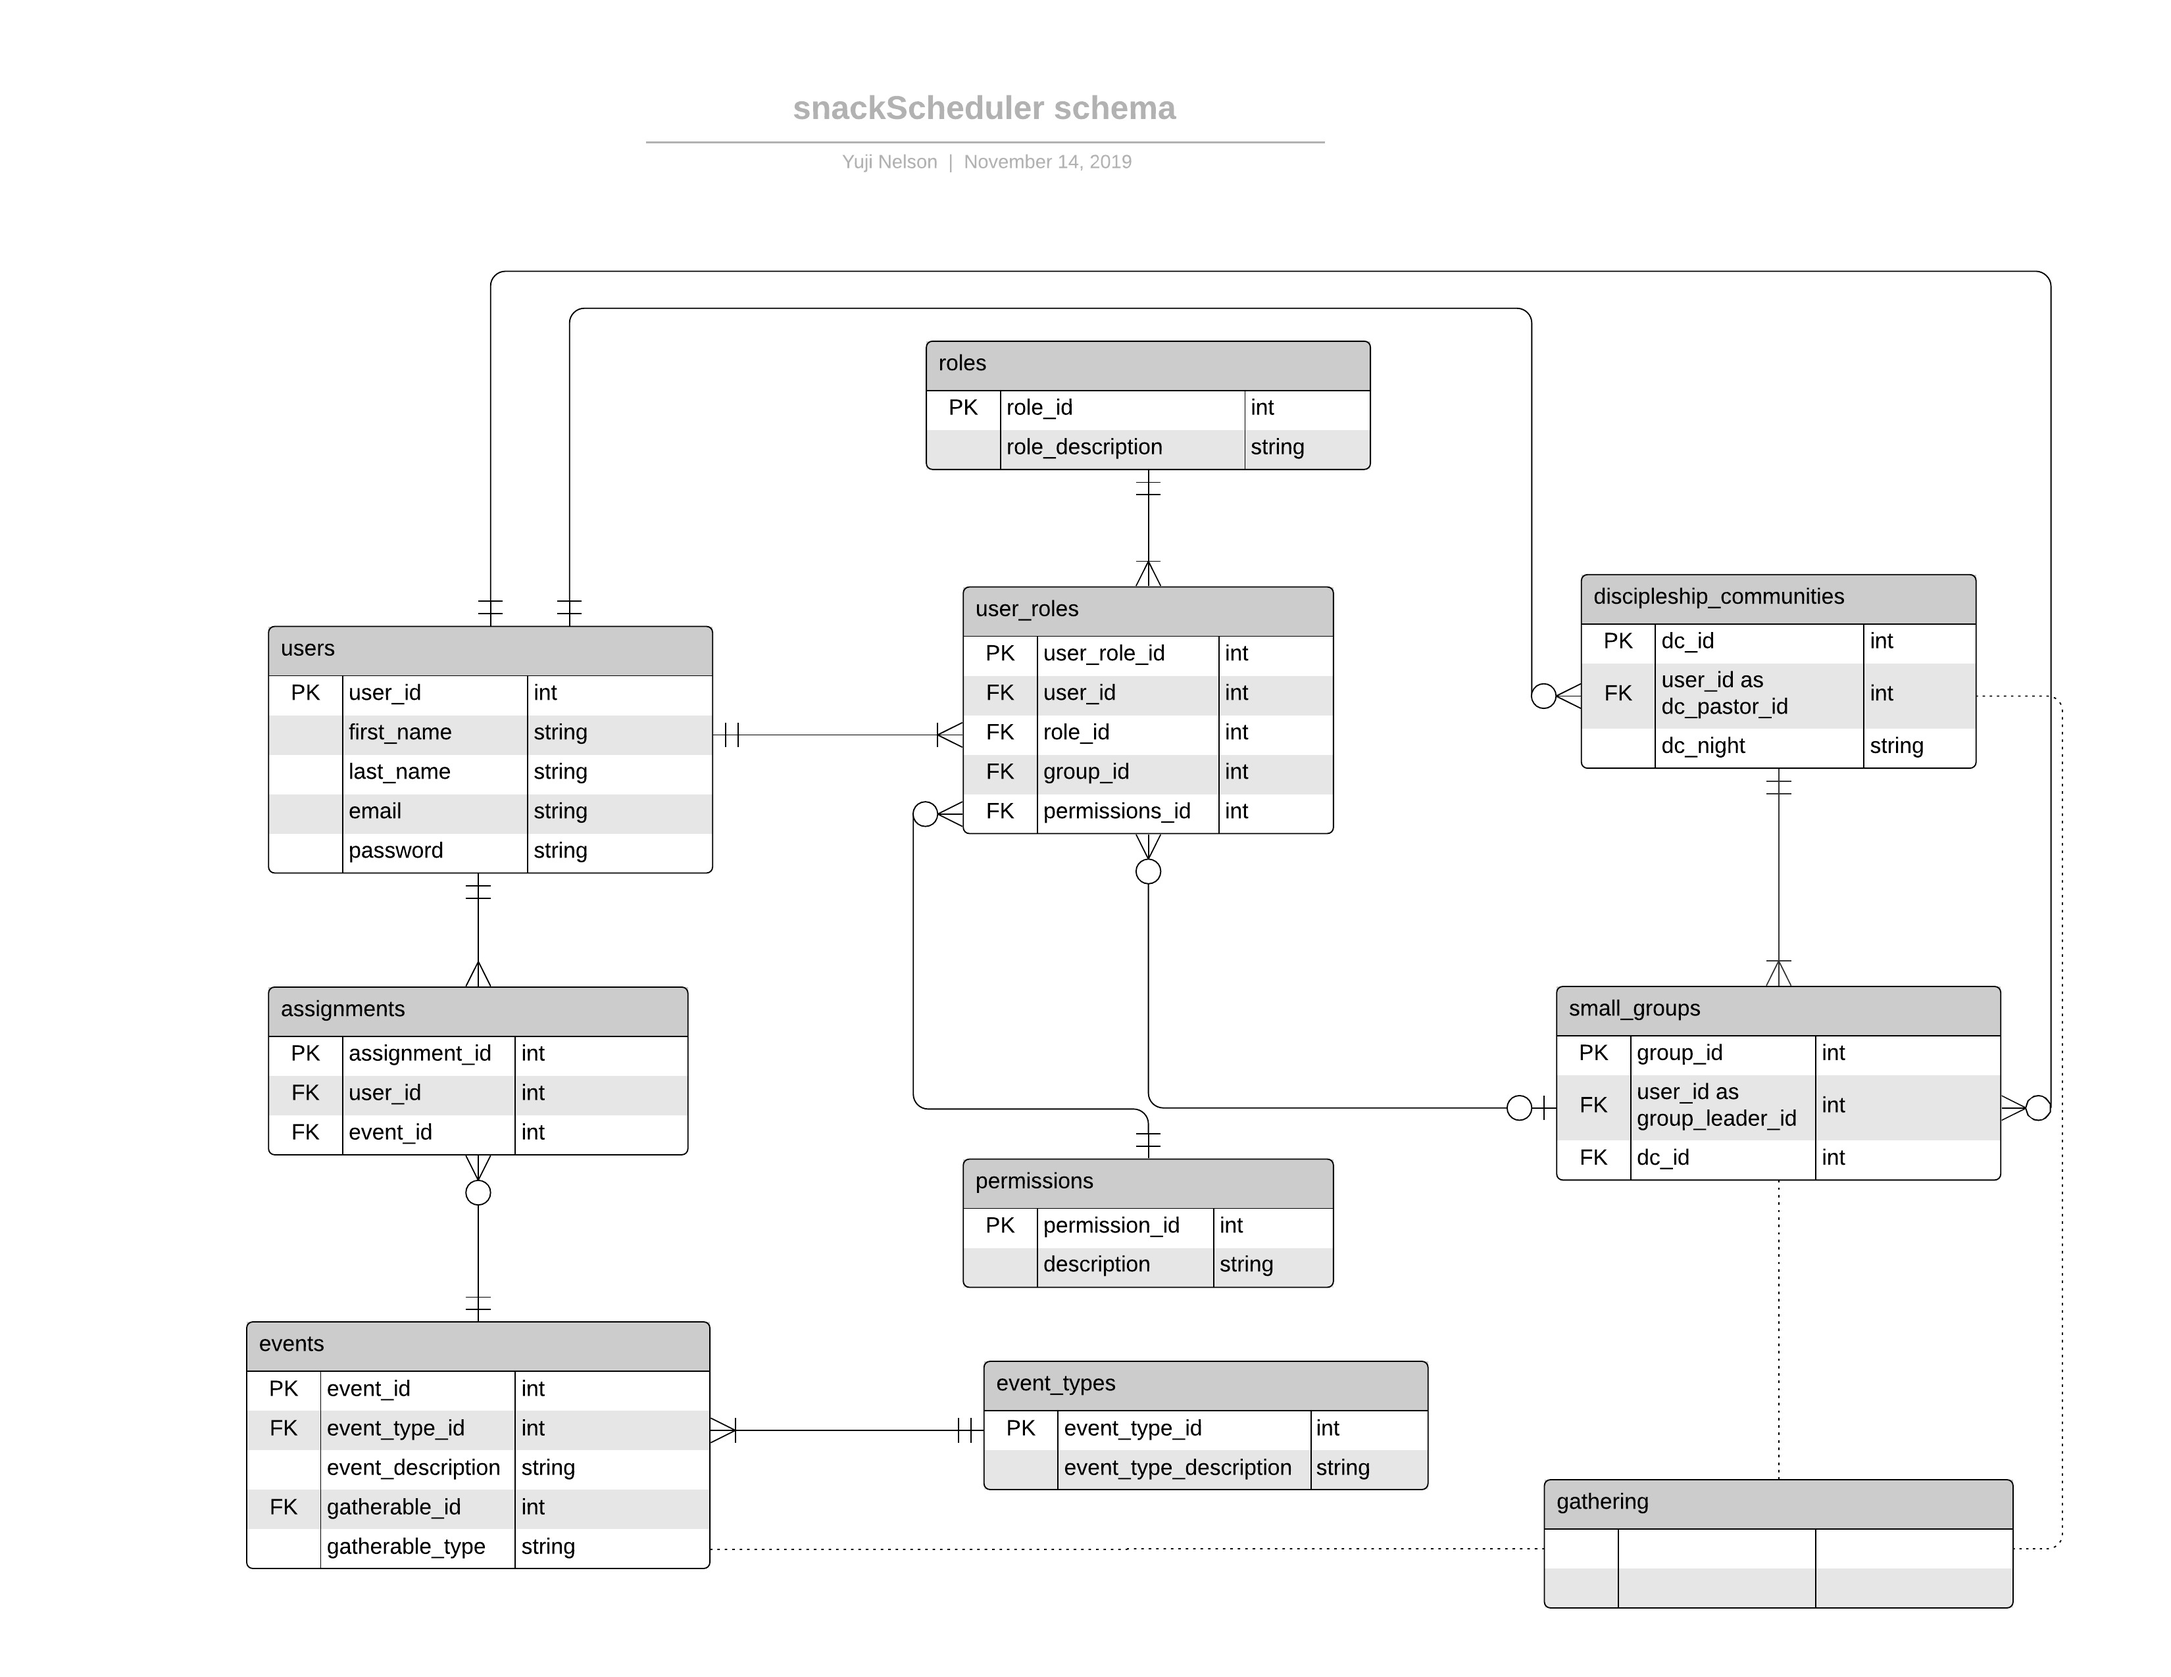
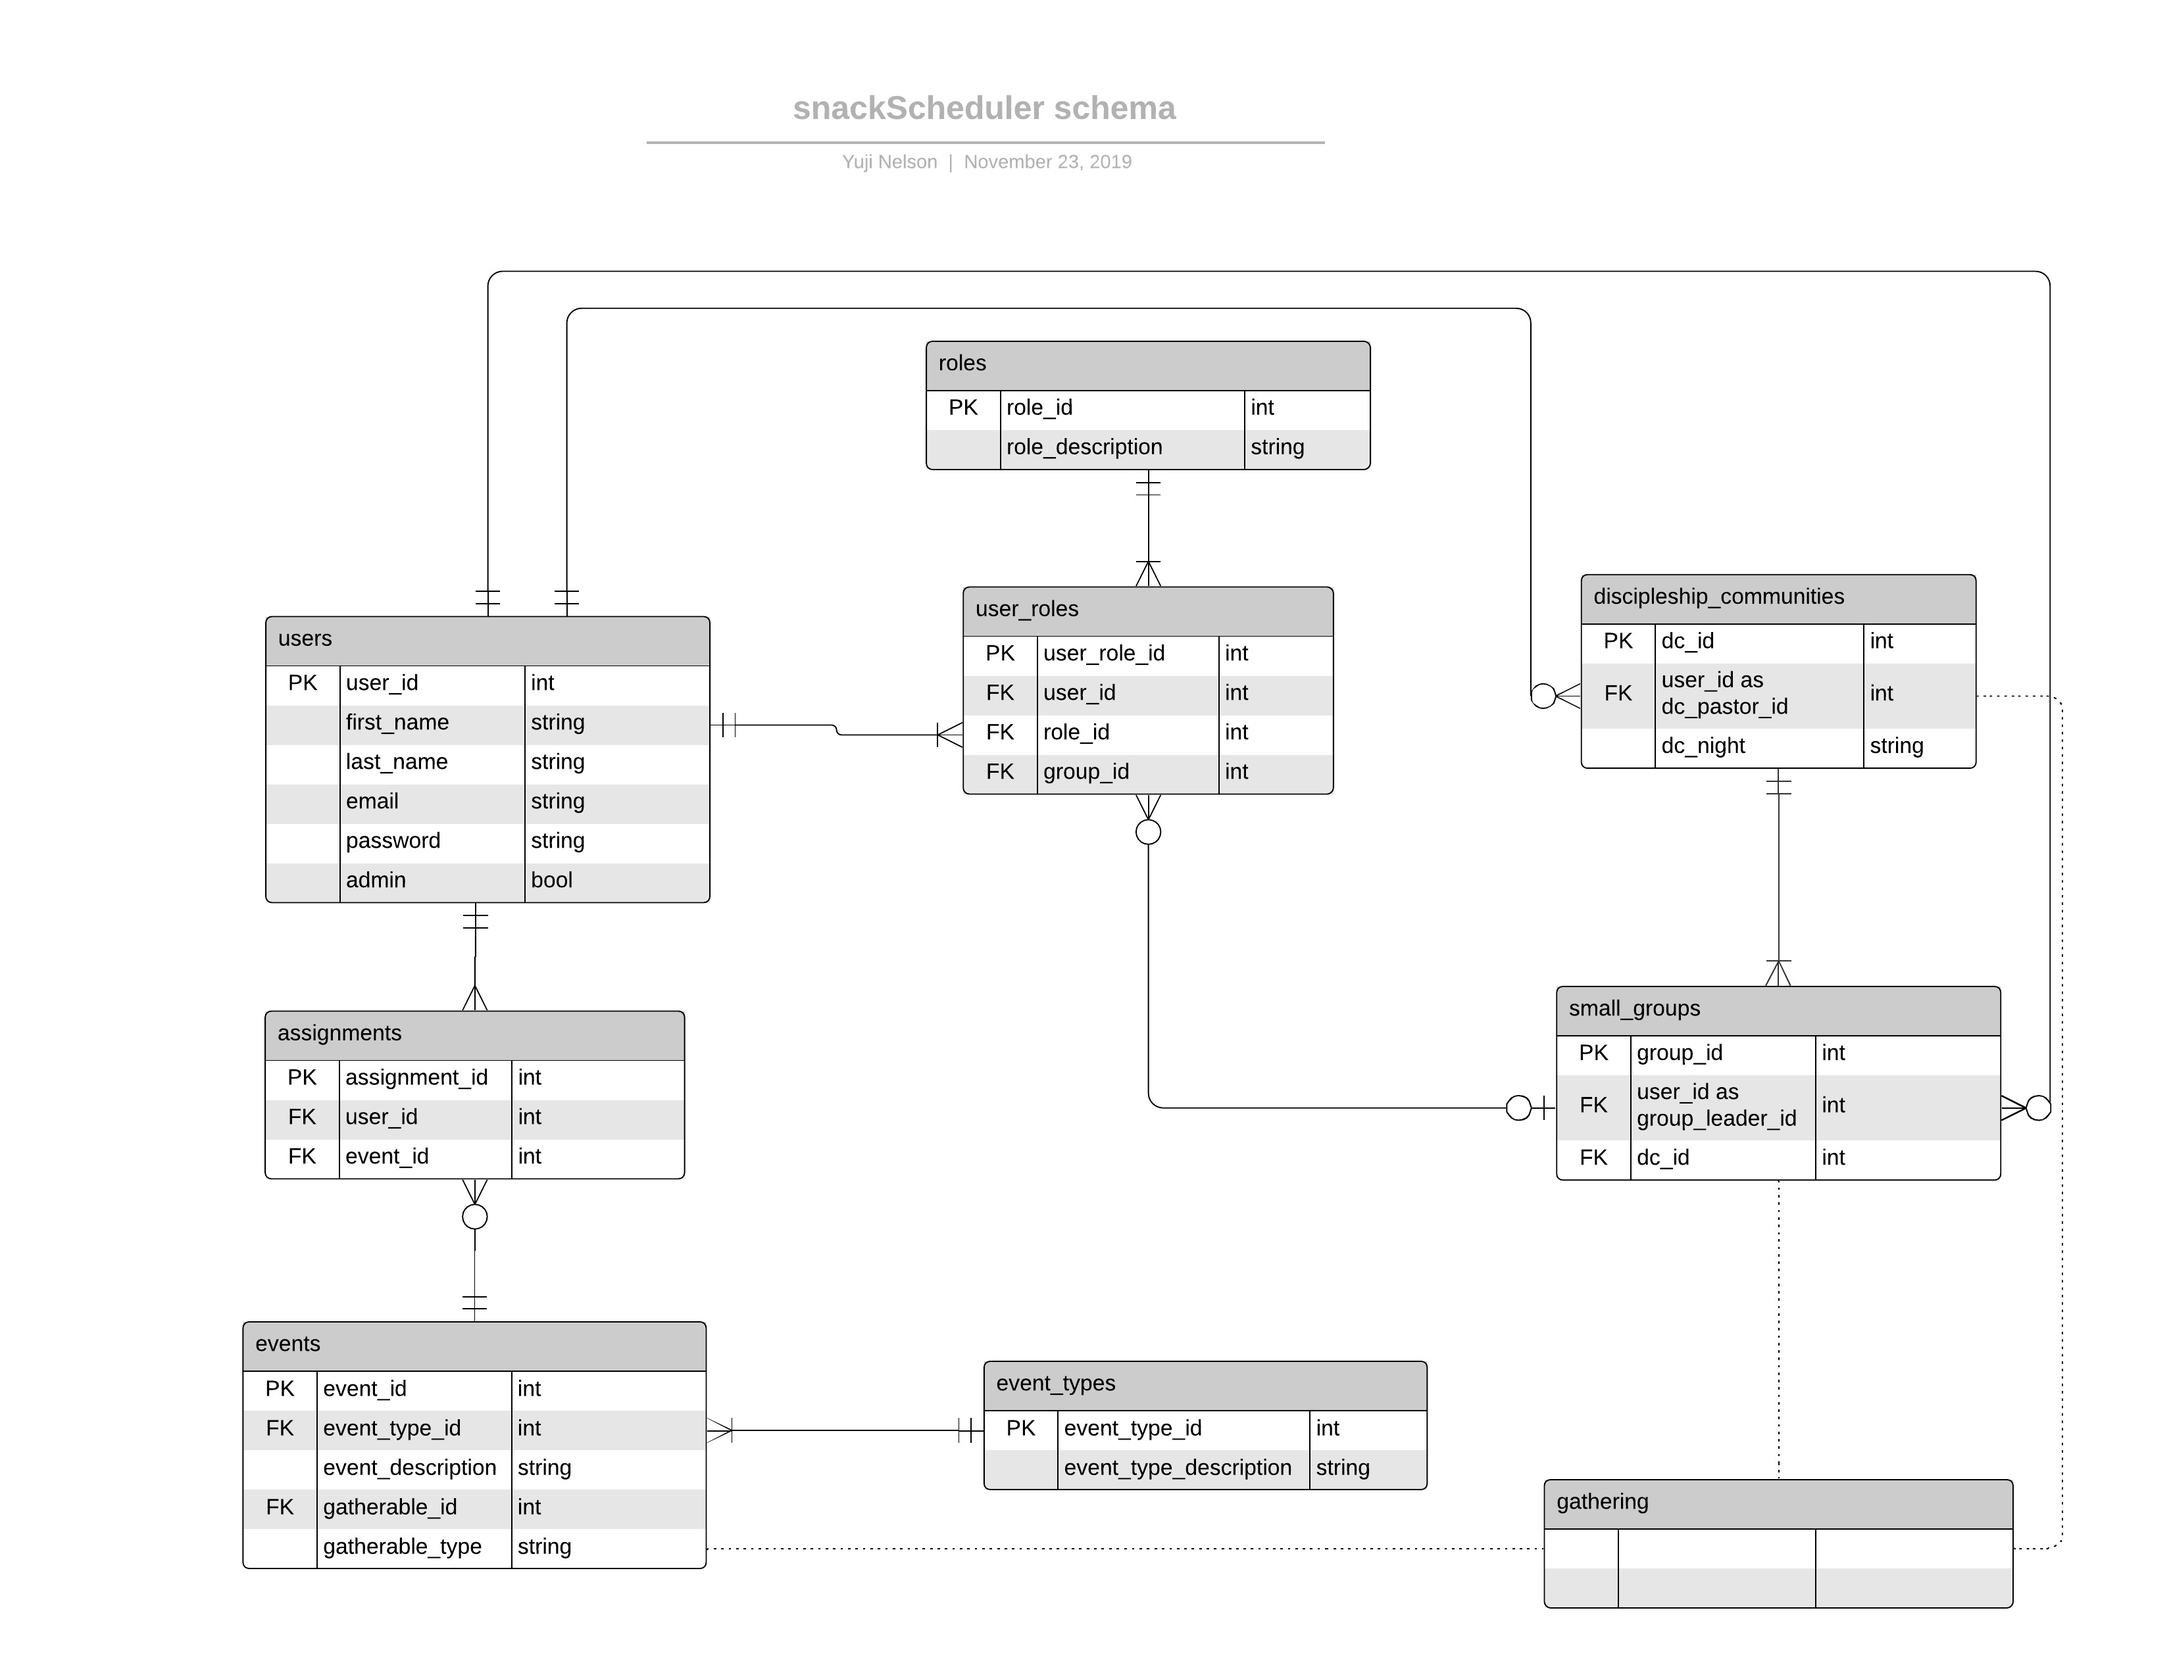
added basic auth
- all pages will now require user to be logged in
- users, user roles, small groups, dcs will require logged in user to be an admin
- created a pages controller and moved root index to it
- removed permissions from user role
- added admin to user

diff --git a/app/assets/stylesheets/pages.scss b/app/assets/stylesheets/pages.scss
@@ -1,3 +1,3 @@
-// Place all the styles related to the Permissions controller here.
+// Place all the styles related to the Pages controller here.
 // They will automatically be included in application.css.
 // You can use Sass (SCSS) here: http://sass-lang.com/

diff --git a/db/seeds.rb b/db/seeds.rb
@@ -21,30 +21,6 @@ event_types = EventType.create([
   }
   ])
 
-permissions = Permission.create([
-  {
-    description: 'User'
-  },
-  {
-    description: 'Group Administrator'
-  },
-  {
-    description: 'Group Coordinator'
-  },
-  {
-    description: 'Discipleship Community Administrator'
-  },
-  {
-    description: 'Discipleship Community Coordinator'
-  },
-  {
-    description: 'Supervisor'
-  },
-  {
-    description: 'Administrator'
-  }
-])
-
 users = User.create([
   {
     first_name: 'Discipleship Community',
@@ -93,6 +69,21 @@ users = User.create([
     last_name: 'Administrator',
     email: 'admin@snack.app',
     password: 'password',
+    password_confirmation: 'password',
+    admin: true
+  },
+  {
+    first_name: 'Discipleship Community',
+    last_name: 'Coordinator',
+    email: 'coordinator@dc.app',
+    password: 'password',
+    password_confirmation: 'password'
+  },
+  {
+    first_name: 'Group',
+    last_name: 'Coordinator',
+    email: 'coordinator@group.app',
+    password: 'password',
     password_confirmation: 'password'
   }
 ])
@@ -118,32 +109,44 @@ roles = Role.create([
   },
   {
     description: 'Small group member'
+  },
+  {
+    description: 'Discipleship Community coordinator'
+  },
+  {
+    description: 'Small group coordinator'
   }
 ])
 
 user_roles = UserRole.create([
   {
     user_id: users[0].id,
-    role_id: roles[0].id,
-    permission_id: permissions[3].id
+    role_id: roles[0].id
   },
   {
     user_id: users[1].id,
     role_id: roles[1].id,
-    small_group_id: 1,
-    permission_id: permissions[1].id
+    small_group_id: 1
   },
   {
     user_id: users[2].id,
     role_id: roles[2].id,
-    small_group_id: 1,
-    permission_id: permissions[0].id
+    small_group_id: 1
   },
   {
     user_id: users[6].id,
     role_id: roles[1].id,
-    small_group_id: 1,
-    permission_id: permissions[6].id
+    small_group_id: 1
+  },
+  {
+    user_id: users[7].id,
+    role_id: roles[3].id,
+    small_group_id: 1
+  },
+  {
+    user_id: users[8].id,
+    role_id: roles[4].id,
+    small_group_id: 1
   }
 ])
 

diff --git a/app/controllers/users_controller.rb b/app/controllers/users_controller.rb
@@ -1,6 +1,8 @@
 class UsersController < ApplicationController
-  before_action :logged_in_user, only: [:index, :edit, :update]
+  skip_before_action :logged_in_user, only: [:new, :create]
+  # # before_action :logged_in_user, only: [:edit, :update, :destroy]
   before_action :correct_user, only: [:edit, :update]
+  before_action :admin_user, only: [:index, :destroy]
 
   def index
     @users = User.paginate(page: params[:page])
@@ -15,11 +17,11 @@ class UsersController < ApplicationController
   end
 
   def create
-    #render plain: params[:user].inspect
+    # render plain: params[:user].inspect
     @user = User.new(user_params)
     if @user.save
       log_in @user
-      flash[:success] = "Account created!"
+      flash[:success] = 'Account created!'
       redirect_to @user
     else
       render 'new'
@@ -34,11 +36,17 @@ class UsersController < ApplicationController
   def update
     @user = User.find(params[:id])
     if @user.update_attributes(user_params)
-      flash[:success] = "Account edited"
+      flash[:success] = 'Account edited'
       redirect_to @user
     else
       render 'edit'
     end
+  end
+
+  def destroy
+    User.find(params[:id]).destroy
+    flash[:success] = 'User deleted'
+    redirect_to users_url
   end
 
   private
@@ -46,23 +54,4 @@ class UsersController < ApplicationController
     params.require(:user).permit(:first_name, :last_name, :email,
       :password, :password_confirmation)
   end
-
-  # confirms if a user is logged in
-  def logged_in_user
-    unless logged_in?
-      store_location
-      flash[:danger] = "Uh oh. Looks like you'll need to log in before you can do that 😬"
-      redirect_to login_url
-    end
-  end
-
-  # confirms the correct user
-  def correct_user
-    @user = User.find(params[:id])
-    unless current_user?(@user)
-      flash[:danger] = "Yikes. Sorry, but it doesn't look you have permission to do that 😬"
-      redirect_back(fallback_location: root_url)
-    end
-  end
-
 end

diff --git a/db/schema.rb b/db/schema.rb
@@ -10,7 +10,7 @@
 #
 # It's strongly recommended that you check this file into your version control system.
 
-ActiveRecord::Schema.define(version: 2019_11_14_180921) do
+ActiveRecord::Schema.define(version: 2019_11_23_185526) do
 
   # These are extensions that must be enabled in order to support this database
   enable_extension "plpgsql"
@@ -49,12 +49,6 @@ ActiveRecord::Schema.define(version: 2019_11_14_180921) do
     t.index ["event_type_id"], name: "index_events_on_event_type_id"
   end
 
-  create_table "permissions", force: :cascade do |t|
-    t.string "description"
-    t.datetime "created_at", precision: 6, null: false
-    t.datetime "updated_at", precision: 6, null: false
-  end
-
   create_table "roles", force: :cascade do |t|
     t.string "description"
     t.datetime "created_at", precision: 6, null: false
@@ -76,8 +70,6 @@ ActiveRecord::Schema.define(version: 2019_11_14_180921) do
     t.integer "small_group_id"
     t.datetime "created_at", precision: 6, null: false
     t.datetime "updated_at", precision: 6, null: false
-    t.integer "permission_id"
-    t.index ["permission_id"], name: "index_user_roles_on_permission_id"
     t.index ["role_id"], name: "index_user_roles_on_role_id"
     t.index ["small_group_id"], name: "index_user_roles_on_small_group_id"
     t.index ["user_id"], name: "index_user_roles_on_user_id"
@@ -91,6 +83,7 @@ ActiveRecord::Schema.define(version: 2019_11_14_180921) do
     t.datetime "created_at", precision: 6, null: false
     t.datetime "updated_at", precision: 6, null: false
     t.string "remember_digest"
+    t.boolean "admin", default: false
   end
 
   add_foreign_key "small_groups", "users", column: "leader_id"

diff --git a/app/helpers/auth_helper.rb b/app/helpers/auth_helper.rb
@@ -1,0 +1,28 @@
+module AuthHelper
+
+  # confirms if a user is logged in
+  def logged_in_user
+    unless logged_in?
+      store_location
+      # only display log in message if not redirected from the homepage
+      if session[:forwarding_url] != '/'
+        flash[:danger] = "Uh oh. Looks like you'll need to log in before you can do that 😬"
+      end
+      redirect_to login_url
+    end
+  end
+
+  # confirms the correct user
+  def correct_user
+    @user = User.find(params[:id])
+    unless current_user?(@user)
+      flash[:danger] = "Yikes. Sorry, but it doesn't look you have permission to do that 😬"
+      redirect_back(fallback_location: root_url)
+    end
+  end
+
+  def admin_user
+    redirect_to(root_url) unless current_user.admin?
+  end
+
+end

diff --git a/config/routes.rb b/config/routes.rb
@@ -1,8 +1,7 @@
 Rails.application.routes.draw do
-  resources :permissions
   # For details on the DSL available within this file, see https://guides.rubyonrails.org/routing.html
   # root '{{page name}}' to set root page
-  root 'application#index'
+  root 'pages#index'
 
   resources :users
   resources :discipleship_communities

diff --git a/app/helpers/sessions_helper.rb b/app/helpers/sessions_helper.rb
@@ -47,7 +47,7 @@ module SessionsHelper
 
   # stores intended URL of request
   def store_location
-    session[:forwarding_url] = request.original_url if request.get?
+    session[:forwarding_url] = request.original_fullpath if request.get?
   end
 
   def redirect_back_or(default)

diff --git a/app/models/user_role.rb b/app/models/user_role.rb
@@ -1,5 +1,4 @@
 class UserRole < ApplicationRecord
-  belongs_to :permission, foreign_key: "permission_id"
   belongs_to :role, foreign_key: "role_id"
   belongs_to :small_group, foreign_key: "small_group_id", optional: true
   belongs_to :user, foreign_key: "user_id"

diff --git a/db/migrate/20191123183607_add_admin_to_users.rb b/db/migrate/20191123183607_add_admin_to_users.rb
@@ -1,0 +1,7 @@
+class AddAdminToUsers < ActiveRecord::Migration[6.0]
+  def change
+    add_column :users, :admin, :boolean, default: false
+    remove_index :user_roles, :permission_id
+    remove_column :user_roles, :permission_id, :int
+  end
+end

diff --git a/app/controllers/discipleship_communities_controller.rb b/app/controllers/discipleship_communities_controller.rb
@@ -1,4 +1,5 @@
 class DiscipleshipCommunitiesController < ApplicationController
+  before_action :admin_user
   before_action :set_discipleship_community, only: [:show, :edit, :update, :destroy]
 
   # GET /discipleship_communities

diff --git a/app/controllers/application_controller.rb b/app/controllers/application_controller.rb
@@ -1,7 +1,6 @@
 class ApplicationController < ActionController::Base
   protect_from_forgery with: :exception
   include SessionsHelper
-  def index
-    
-  end
+  include AuthHelper
+  before_action :logged_in_user
 end

diff --git a/test/controllers/pages_controller_test.rb b/test/controllers/pages_controller_test.rb
@@ -1,6 +1,6 @@
 require 'test_helper'
 
-class PermissionsControllerTest < ActionDispatch::IntegrationTest
+class PagesControllerTest < ActionDispatch::IntegrationTest
   # test "the truth" do
   #   assert true
   # end
